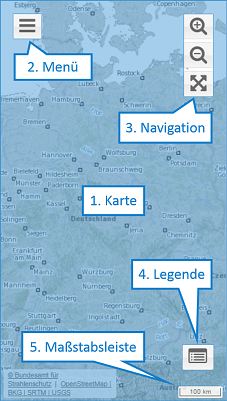
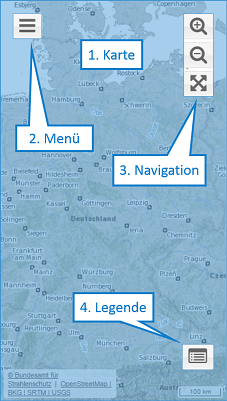
modern: reworked help composition

diff --git a/src/modern/src/view/panel/MobileImprint.js b/src/modern/src/view/panel/MobileImprint.js
@@ -62,12 +62,5 @@ Ext.define('Koala.view.panel.MobileImprint',{
             title: '{helpLegendTitle}',
             html: '{helpLegendHtml}'
         }
-    }, {
-        xtype: 'fieldset',
-        padding: 5,
-        bind: {
-            title: '{helpScaleBarTitle}',
-            html: '{helpScaleBarHtml}'
-        }
     }]
 });

diff --git a/src/modern/src/view/panel/MobileImprintModel.js b/src/modern/src/view/panel/MobileImprintModel.js
@@ -14,9 +14,7 @@ Ext.define('Koala.view.panel.MobileImprintModel', {
         helpNavigationTitle: '',
         helpNavigationHtml: '',
         helpLegendTitle: '',
-        helpLegendHtml: '',
-        helpScaleBarTitle: '',
-        helpScaleBarHtml: ''
+        helpLegendHtml: ''
     }
 
 });
